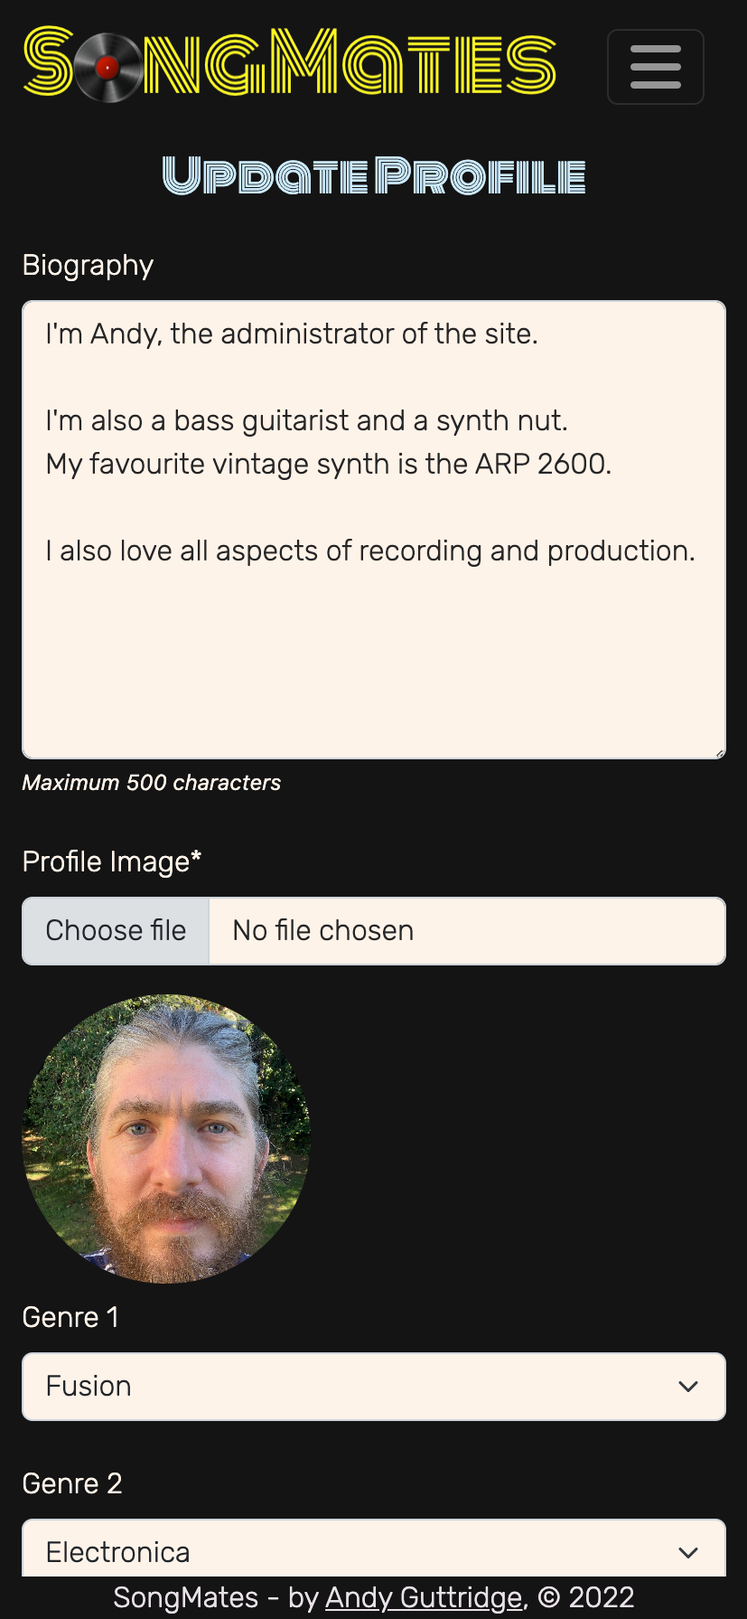
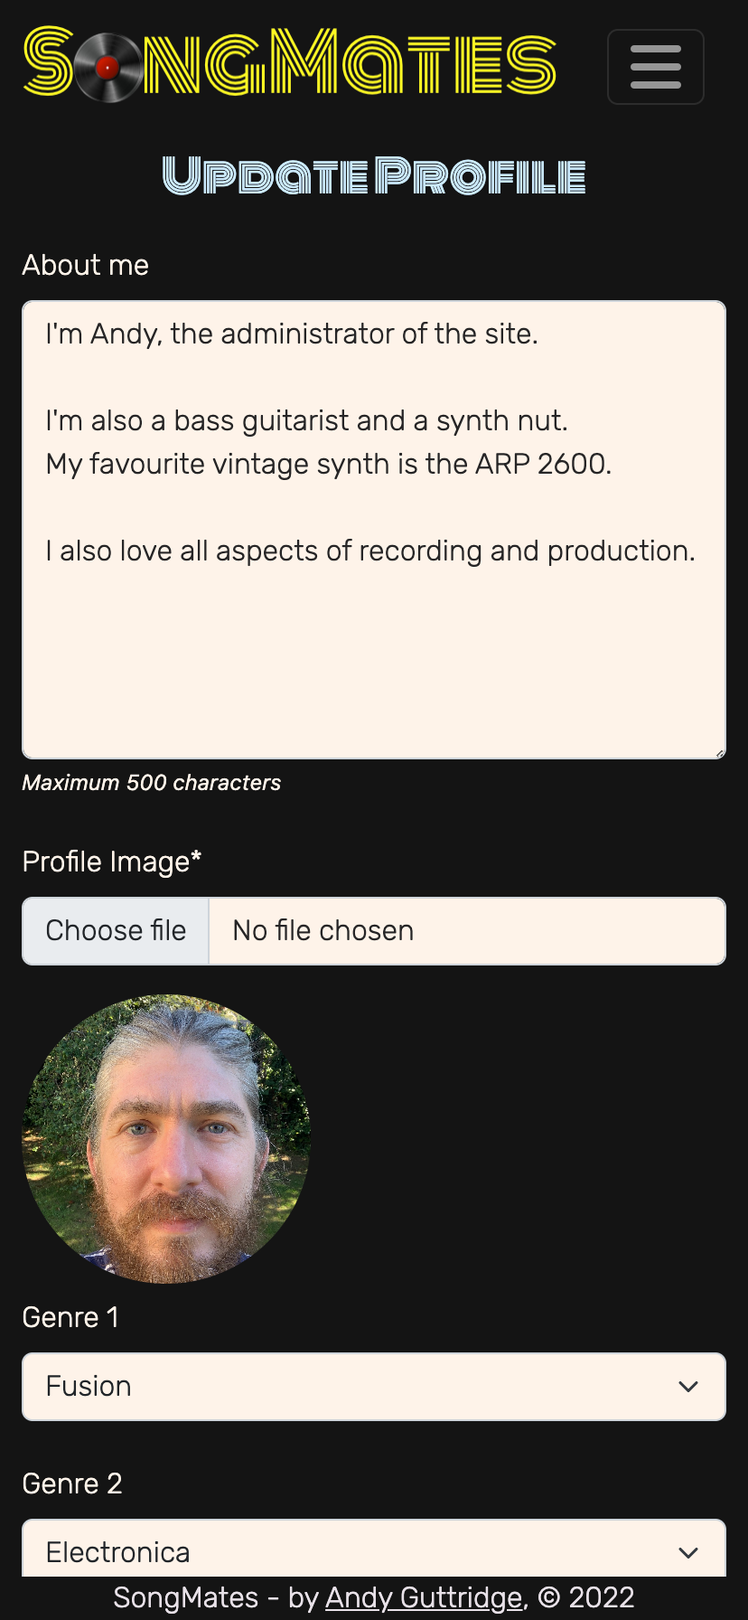
Docs: update read-me

diff --git a/README.md b/README.md
@@ -7,25 +7,22 @@
 Thanks to modern technology, musicians can make great quality recordings at home. There's never been a better time for musicians to be able to express themselves via the 
 medium of digital recording. Great music is often the result of collaboration, and while audio technology enables musicians to work with each other remotely, how do you find people to collaborate with?
  
-The purpose of Song Mates is to provide a platform for musicians who want to write, perform and record material to find like minded people to collaborate with, whether that be for a song or an album.
+The purpose of Song Mates is to provide a platform for musicians who want to write, perform and record material to find like minded people to collaborate with, whether that be for a song or an album. It was designed as a 'mobile first' web app from the ground up.
 
-SongMates was conceived as a 'mobile first' web app.
-
-SongMates enables un-quthenticated users to:
+SongMates enables un-authenticated users to:
 
 - Browse and search profiles of other users.
-- Register with SongMates
+- Register with SongMates.
 
 Authenticated users are able to:
 
 - Create a user profile with an image, and 'About me' section, select up to five genres of music they are interested in from a preset list, and specify up to five instruments and skills to display on their profile.
 - Send a 'collaboration request' to other users. This is similar to a connection request on LinkedIn or friend request on Facebook.
-- Send user to user messages directly to other users who are collaborators. Note the term 'messages' refers to user to user messages throughout this documentation (as opposed to Django user messages).
+- View the profile of users who have sent them collaboration requests, and decide whether to accept or reject the request.
+- Send user to user messages directly to other users who are collaborators. Note the term 'messages' refers to user to user messages throughout this documentation, unless otherwise stated (as opposed to Django user messages).
+- View incoming and outgoing messages in an inbox/outbox format.
 - Mark messages as deleted.
-- Uncollaborate with collaborators (this means these two users will no longer be able to message each other).
-
-
-Users can register with Song Mates, and create a profile with an image, a biography or summary of what they're looking for, and can specify the instruments they play and relevant skills. They can search for potential collaborators using these criteria, and make collaboration requests (like a connection request on LinkedIn or friend request on Facebook). Users can send direct messages to their  connections.
+- 'Uncollaborate' with collaborators (this means these two users will no longer be able to message each other).
 
 ### CRUD functionality
 
@@ -33,8 +30,8 @@ SongMates features a persistent data store with full Create, Read, Update and De
 
 - Create - authenticated users can create a user account, a profile, collaboration requests and messages (only to their approved collaborators).
 - Read - users can view the profiles of other users, and authenticated users can read messages sent to them.
-- Update - authenticated users can update their profiles and save the changes.
-- Delete - authenticated users can delete their profiles, delete pending collaboration requests (whether cancelling, rejecting or approving them) and delete messages sent by or to them (note that messsages appear to be deleted to the user, but are not actually deleted from the database until both the sending and receiving users have marked them as deleted).
+- Update - authenticated users can update their profiles and save the changes, and can approve collaboration requests sent to them (resulting in a new many-to-many relationship in the database).
+- Delete - authenticated users can delete their profiles, delete pending collaboration requests (whether cancelling, rejecting or approving them) and delete messages sent by or to them (note that messages appear to be deleted to the user, but are not actually deleted from the database until both the sending and receiving users have marked them as deleted).
 
 ## Table of contents
 
@@ -78,12 +75,12 @@ A project Kanban board was used to track progress, with user stories moved betwe
     <img src="readme_media/iteration_3_kanban_iii.png" width="400">
 </p>
 
-The project boards for each iteration in their final form can be accessed [via this link](https://github.com/andy-guttridge/song-mates/projects?query=is%3Aopen).
+The project boards in their final form can be accessed [via this link](https://github.com/andy-guttridge/song-mates/projects?query=is%3Aopen).
 There are no project boards for iterations 4 and 6, because they were 'special' three working day iterations dedicated to design/styling work and testing/bug fixing, as opposed to implementing user stories. All the MVP user stories had been successfully implemented by the end of iteration 3.
 
 There were some user stories which were automatically implemented as a consequence of other work (e.g. implementing admin panels for the data models) or by virtue of Django's built in features. These were documented with a special 'mop-up' milestone ([link](https://github.com/andy-guttridge/song-mates/milestone/6)) and closed.
 
-One challenge was that there was considerable uncertainty as to how many story points to allocate to each task. For this reason, the first iteration had tasks equating to more than 16 total, although care was taken to ensure the number of 'must haves' did not exceed 60%. As work progressed, it became apparent that story points had been overestimated for some tasks, with iteration 2 completed ahead of schedule. Iteration 3 was then opened early.
+One challenge was that there was considerable uncertainty as to how many story points to allocate to each task. For this reason, the first iteration had tasks equating to more than 16 total, although care was still taken to ensure the number of 'must haves' did not exceed 9 story points. As work progressed, it became apparent that story points had been overestimated for some tasks, with iteration 2 completed ahead of schedule. Iteration 3 was then opened early.
 
 Note that one user story was left off the iteration 3 board in error, but was planned for and completed during that iteration. It was later added to the 'done' column for that iteration to ensure it was documented.
 
@@ -127,17 +124,17 @@ Users who have not yet filled out any of their profile are redirected to this pa
 
 The update profile form enables the user to update their profile with:
 
-- A 'biography' of up to 500 characters. This is where the user can describe their musical interests and goals.
+- Am  About Me 'biography' of up to 500 characters. This is where the user can describe their musical interests and goals.
 - An image.
 - A selection of up to five musical genres from pre-populated lists.
-- Up to five free text 'instruments or skills' of up to 30 characters
+- Up to five free text 'instruments or skills' fields of up to 30 characters
 
 The form is validated so that if something goes wrong with the image upload, the user is prompted to consider whether they have uploaded a non-image file (see custom user messages below).
 The form has 'revert' and 'submit' buttons. The revert button reloads the form with the previous data, while submit commits the form to the database.
 
 At the bottom of the edit-profile is the delete account form, enabling the user to close their account. Selecting the button opens a modal dialog, giving the user the choice to dismiss the modal or confirm the deletion.
 
-In the event the user confirms the deletion, their profile is deleted from the database and their user account made inactive (in line with Django best practice which recommends not deleting user accounts in order not to cause broken references within database tables referencing users).
+In the event the user confirms the deletion, their profile is deleted from the database and their user account made inactive (in line with Django best practice which recommends not deleting user accounts in order not to cause broken references within database tables).
 
 ### Find collaborators page
 <p align="center">
@@ -170,7 +167,7 @@ The 'search profiles' field enables the user to perform a free text search on pr
 Profiles are displayed with a collapsible section which can be expanded by pressing the down arrow. This reveals the 'About me' biography and a number of possible buttons depending on the status of the user and their relationship to the other users.
 
 - If the user is not authenticated, only the 'About me' section is revealed within the collapsible.
-- If the authenticated user has an approved collaboration relationship with the other user, this is indicated with a blue collaborator icon next to the other user's name. A 'contact me' icon enables them to send a message to the other user, and an un-collaborate button enables them to end the collaboration. The send message button opens a modal dialog enabling a message to be sent directly from this page. Chossing to un-collaborate opens another modal, asking the user to dismiss or confirm the request.
+- If the authenticated user has an approved collaboration relationship with the other user, this is indicated with a blue collaborator icon next to the other user's name. A 'contact me' icon enables them to send a message to the other user, and an un-collaborate button enables them to end the collaboration. The send message button opens a modal dialog enabling a message to be sent directly from this page. Choosing to un-collaborate opens another modal, asking the user to dismiss or confirm the request.
 - If the authenticated user has a pending collaboration request (incoming or outgoing), a 'pending collaboration request' button provides a visual indication and links directly to the collaboration requests page so that action can be taken.
 - If the user is authenticated but does not currently have a collaborative relationship with the other user, a 'request to collaborate' button sends the other user a collaboration request.
 
@@ -185,6 +182,8 @@ The 'pending collaboration requests' page enables the authenticated user to see 
 
 For incoming collaboration requests, the user can decide whether to accept or reject the collaboration request. Selecting reject opens a modal dialog to ask the user to confirm the rejection.
 
+For outgoing collaboration requests, the user can cancel the request.
+
 ### Messages page with inbox and outbox
 <p align="center">
     <img src="readme_media/messages1.png" width="200">
@@ -192,9 +191,9 @@ For incoming collaboration requests, the user can decide whether to accept or re
     <img src="readme_media/messages3.png" width="200">
 </p>
 
-Similar to the collaboration requests page, the 'messages' page provides users with an overview of incoming and outgoing messages. They can users' profiles by clicking on the name in the 'from' column, and can view messages in a modal by selecting the subject of the message in the 'subject' column. For incoming messages, they can reply directly from the modal.
+Similar to the collaboration requests page, the 'messages' page provides users with an overview of incoming and outgoing messages. They can view users' profiles by clicking on the name in the 'from' column, and can view messages in a modal by selecting the subject of the message in the 'subject' column. For incoming messages, they can reply directly from the modal.
 
-A delete button enables the user to delete messages, after confirming the action in a modal dialog. If the user confirms deletion, the message will no longer be visible to them, but will only be deleted from the database when both the sending and receiving users have marked it as deleted. This is to prevent messages disappearing for one user when they have only been deleted by the other. 
+A delete button enables the user to delete messages, after confirming the action in a modal dialog. If the user confirms deletion, the message will no longer be visible to them, but will only be deleted from the database when both the sending and receiving users have marked it as deleted. This is to prevent messages disappearing for one user before they have chosen to delete it.
 
 ### Sign-in, sign-out and register pages
 <p align="center">
@@ -216,7 +215,7 @@ Sign-in, sign-out and register pages are customised to match the styling of the 
 In addition to the standard Django user messages confirming successful sign-in and sign-out, the site features four additional custom messages to give the user feedback on some possible issues:
 
 - The user could attempt to message another user with whom they were a collaborator from the messages inbox, but the previous collaborator has now deleted their profile.
-- The user could attempt to message another user with whom they were a collaborator from the messages inbox, but the previous collaborator has now ended the collaboration.
+- The user could attempt to message another user with whom they were a collaborator from the messages inbox, but the previous collaborator has now ended the collaboration. In this event, the message will not be sent.
 - The user is provided with feedback if a profile search returns no results.
 - The user is provided with feedback if something goes wrong with the edit profile form submission. While not the only possible issue, a typical cause of an error would be attempting to upload a non-image file, because most of the fields are straighforward text or multiple choice fields. The message includes a prompt to reflect this.
 
@@ -235,9 +234,9 @@ The site includes an administrator panel only accessible to users with admin or 
 - User accounts to be permanently deleted.
 - Inactive user accounts to be reactivated.
 - User details to be amended.
-- User profiles to be created.
-- User profiles to be deleted.
-- User profiles to be amended, including upload of new images.
+- Profiles to be created.
+- Profiles to be deleted.
+- Profiles to be amended, including upload of new images.
 - Collaboration requests to be created and deleted.
 - User to user messages to be created and deleted. This means site administrators can message any user, even if they are not collaborators.
 - Only superusers are able to change the permission levels for other users.
@@ -259,7 +258,7 @@ There are some parts of the site that would benefit from refactoring, which has 
 
 - There is currently a lot of HTML duplicated between the `find_collabs.html` and `single_profile.html` templates. These could be refactored into a single template, but this would require passing in additional data and adding conditional statements to the template to determine whether it should render as a single profile or multiple profiles (e.g. this would influence whether or not to render search features, the correct heading for the page etc).
 - The code to process the search form in the `SearchProfiles` class in `views.py` is overly complex. This would benefit from refactoring as a priority.
-- Currently multiple modal dialogs are created within the DOM to faciliate user interaction relating to specific profiles, collaboration requests and messages. These require unique elements and attributes such as forms and buttons, to ensure actions are performed on the correct database objects, that the correct user to user messages are displayed and so on. It would be more efficient to render one modal and populate it for the appropriate action.
+- Currently multiple modal dialogs are created within the DOM to faciliate user interaction relating to specific profiles, collaboration requests and messages. These require unique elements and attributes such as forms and buttons, to ensure actions are performed on the correct database objects, that the correct messages are displayed and so on. It would be more efficient to render one modal and populate it for the appropriate action.
 
 #### Future features
 
@@ -269,7 +268,7 @@ A significant number of potential enhancements for the future have been identifi
 - Ability to send a message with a collaboration request.
 - Ability to send a message when choosing to 'un-collaborate' with a user.
 - Organisation of user to user messages into 'threads'.
-- Abiity to distinguish between 'read' and 'unread' messages so that only unread messages are counted in the navbar, and the ability for the user to mark messages as read or unread
+- Abiity to distinguish between 'read' and 'unread' messages so that only unread messages are counted in the navbar, and the ability for the user to mark messages as read or unread.
 - Group messages.
 - Live chat.
 - Live feedback on character limit on forms.
@@ -279,9 +278,9 @@ A significant number of potential enhancements for the future have been identifi
 - Ability for users to report other users to the site admin.
 - Mechanism for users to easily contact the site admin.
 - 'Masonry' layout of user profile 'cards'.
-- A fearture to explicitly mark accounts as 'hidden', e.g. for admin accounts, although this can be achieved now by maintaining a completely empty profile.
+- A feature to explicitly mark accounts as 'hidden', e.g. for admin accounts, although this can be achieved now by maintaining a completely empty profile.
 - Ability to login with social media accounts.
-- Enhanced account management functionality, e.g. ability for users to change username, change password, change email account and add email account verifications without having to get in touch with the site admin.
+- Enhanced account management functionality, e.g. ability for users to change username, change password, change email account and add email account verifications without having to get in touch with the site admin (currently unused allauth templates have not been removed, with a view to implementing these features in future).
 - Automatic reduction of profile image size on upload.
 - Automatic deletion of images from cloudinary storage when users change their profile images or delete their profiles.
 
@@ -301,14 +300,15 @@ Wireframes were produced, mapping the 'user journey' through the site. These wer
 The wireframes proved invaluable as a guideline for the implementation phase. In response to the continual testing of the site throughout the development process, some implementation details diverged from the original wireframe plan:
 
 - Users are directed back to the home page when they login.
-- The number of instruments/skills fields available on user profiles was reduced from ten to five. The data model was initially created with five fields to keep things manageable during the initial development phase, however testing suggested that more than five could become overwhelming and that five should be sufficient for most users. The user corresponding user story was revised accordingly.
+- The number of instruments/skills fields available on user profiles was reduced from ten to five. The data model was initially created with five fields to keep things manageable during the initial development phase, however testing suggested that more than five could become overwhelming and that five should be sufficient for most users. The corresponding user story was revised accordingly.
 - As noted in the user stories section above, it was decided during development to replace the separate 'My collaborators' view with a checkbox on the profile search form, as a way of reducing site complexity and enhancing the user experience.
 - The separate 'write new message' and read message views were replaced by modal dialogs, again to reduce site complexity from the user's perspective.
 - The button to cancel a collaboration request from an individual user profile was replaced with the 'Pending collaboration request' button mentioned in the user stories section. This led to the creation of a whole new 'collaboration requests' view, which was deemed to be a more comprehensive and useful implementation.
+- Account management features such as changing user name, email address etc were not implemented due to time constraints.
 
 ### Data models
 
-Data models were originally planned using a spreadsheet prior to implementation, however are presented here in diagram form for clarity. Note that the 'join table' was not created in the Django `models.py`, but is simplified representation of how Django handles many-to-many relationships 'under the hood'.
+Data models were originally planned using a spreadsheet prior to implementation, however are presented here in diagram form for clarity. Note that the 'join table' was not created in the Django `models.py` file, but is shown here as a simplified representation of how Django handles many-to-many relationships 'behind the scenes'.
 
 SongMates uses the standard Django user model, although not all the fields are utilised.
 
@@ -316,7 +316,7 @@ Custom models for SongMates are:
 
 - Profile - represents the user's profile. This includes the biog (used for the 'About me' information), the genres, the instruments/skills fields, and an image. The profile model also records collaboration relationships between users, using a many-to-many field.
 - CollabRequest - this is a simple model representing collaboration requests sent from one user to another. When a CollabRequest instance is approved or rejected by the receiver, or cancelled by the sender, it is deleted. If approved, this results in a new many-to-many relationship in the Profile table.
-- Message - this represents user-to-user messages. This model includes `from_deleted` and `to_delete` fields, which are used to separately record when the sender and receiver have 'deleted' the message. This enables the message to be hidden from a user when they have marked it as deleted, but for it not to be actually deleted from the database until both users have 'deleted' it.
+- Message - this represents user-to-user messages. This model includes `from_deleted` and `to_deleted` fields, which are used to separately record when the sender and receiver have 'deleted' the message. This enables the message to be hidden from a user when they have marked it as deleted, but for it not to be actually deleted from the database until both users have 'deleted' it.
 
 <p align="center">
     <img src="readme_media/songmates_db_schema.png" width="400">
@@ -356,16 +356,6 @@ Front end CSS and JavaScript library.
 
 ## Testing
 
-### Fixed bugs
-- Testing of the update profile form showed that profile pictures were not uploading to cloudinary. This was rectifed by adding the `enctype="multipart/form-data"` attribute to the form element.
-- While testing the search feature, it was realised that if the user did not select any genres, no profiles would be returned. This was fixed by adding a simple conditional statement to ensure that profiles are not filtered by genre if no genres are selected.
-- During testing, it was found that the 'Show my collaborators only' checkbox on the search form was overriding other search results. For example, if a genre of 'Hip-Hop' was selected in the genres menu and the checkbox to show collaborators only was selected, collaborators would show in the search results even if none of them were matched with the 'Hip-Hop' selection. The correct outcome in this case would be no search results. This was bug was caused by an incorrect boolean condition in an if statement and easily fixed.
-- Non-authenticated users using the search function resulted in a server error. This was caused by an attempt to reference the user's profile in the `SearchProfile` view. This was fixed by moving the offending code inside a conditional statement checking for an authenticated user.
-- Testing uploading an invalid  profile image resulted in an error. This was fixed by adding a try/except block to the view code. A Django message is displayed within the except block in the event of an error.
-- The modal dialog for sending a user to user message in the Find Collaborators page was always displaying the name of the first user profile in the list, no matter which user selected to send a message to. This was because Bootstrap modals must have a unique `id` attribute. All the modals had been given the same `id` within the `for` loop that renders profiles. This was also the case for the corresponding `data-bs-modal` attribute of the buttons used to open the modal from each profile. This was fixed by appending the primary key for each user to the modal `id` and button `data-bs-modal` attribute.
-- The modal dialogs for rejecting incoming or cancelling outgoing collaboration requests were targetting the incorrect users, meaning that when there were multiple collaboration requests for one user, the incorrect one would be deleted from the database. This was for a similar reason to the above issue with user messages, and was fixed by moving the modals within the for loop and applying unique `id` attributes to the forms and buttons for each collaboration request.
-- The 'Show only my collaborators' checkbox on the search form was always returning no results, even when the user did have collaborators. This was fixed by additional checks for empty querysets and whether the checkbox has been selected in `SearchProfile` class in `views.py`.
-
 ### Manual testing
 
 Manual tests were devised for each user story, once it was decided a particular story would be implemented. These are documented on the [SongMates user stories spreadsheet](https://docs.google.com/spreadsheets/d/1lfMAhZfRnoHnkIVx8LW1cVvdgnDvWeyrtCgRz0_mvzA/edit?usp=sharing).
@@ -376,7 +366,7 @@ In addition, the site was subject to continual user testing throughout the devel
 
 ### Automated tests
 
-A number of unit tests were written to test key interactions between the views and the database models. These can be found in the `tests.py` file in the `songmates_main` directory. These tests covered:
+A number of unit tests were written to test key interactions between the views and the database models. These can be found in the `tests.py` file in the `songmates_main` directory. These were:
 
 - Test new profile is created when account is registered - passed
 - Test profile is deleted when request received from user - passed
@@ -388,19 +378,17 @@ A number of unit tests were written to test key interactions between the views a
 - Test that user to user messages are sent correctly when requested by the sender - passed
 - Test that user to user messages are correctly marked as deleted when requested by one user, but only deleted when marked as deleted by both users - passed
 
-
-
 ### Validator testing
 
 #### W3C HTML validator
 
-Given the presence of Django template code in the HTML templates, the rendered HTML was copied from the Chrome browser by right clicking, selecting 'view page source' for each page of the site and then pasting directly into the HTML validator. This following issues were detected:
+Given the presence of Django template code in the HTML templates, the rendered HTML was copied from the Chrome browser by right clicking, selecting 'view page source' for each page of the site and then pasting directly into the HTML validator. The following issues were detected:
 - Three HTML character codes which were not terminated with a `;`  in the navbar and the footer.
 - An element with an opening `<button>` tag and closing `<a>` tag in `find_collabs.html`.
 - The `onchange` attribute for the checkbox on the search form was incorrectly spelt `on-change`. This highlighted that this attribute was a 'hangover' from the development process and had been replaced by an event listener added to the element via JavaScript, so was removed altogether.
 - The `rows` attribute used on the form in the send message modal in the `find_collabs.html` template had been mispelt.
 - Duplicate `id` attributes were found for the modals and forms used to confirm deletion of a collaboration relationship, and for the `form` elements used to send a collaboration request in `find_collabs.html`.
-- Modals were being rendered with `id` attributes referencing non-existent forms in`find_collabs.html`. This error was rectified by wrapping the modal code in an `if`...`endif` block within the HTML template, to check whether a modal would be required for that particular user profile.
+- Modals were being rendered with `id` attributes referencing non-existent forms in `find_collabs.html`. This error was rectified by wrapping the modal code in an `if`...`endif` block within the HTML template, to check whether a modal would be required for that particular user profile.
 - A similar issue with modals being rendered with `id` attributes referencing non-existent forms was also present in `messages.html`. This only affected outgoing messages, and was rectified by moving an `endif` to ensure that modals are only rendered if there is an associated form.
 - Modals were being rendered inside tables in `collab_requests.html` and `messages.html`. This was fixed by moving the modals into a separate for loop within the HTML template.
 
@@ -458,35 +446,77 @@ Performance scores for some pages are disappointing and seem to be largely relat
 <img src="readme_media/lighthouse_signout.png">
 <img src="readme_media/lighthouse_signup.png">
 
-##  Bugs
-
-Initially, allauth configuration was set to require the user to login with an email address and for email verification to be required. However, this caused a Django 'connection refused' error. This was caused by the fact no email server was availabe to send verification request emails. Settings were changed so that account login is by username rather than email address. 
-
 ### Resolved bugs
+- Initially, allauth configuration was set to require the user to login with an email address and for email verification to be required. However, this resulted in a Django 'connection refused' error. This was caused by the fact no email server was availabe to send verification request emails. Settings were changed so that account login is by username rather than email address. 
+- Testing of the update profile form showed that profile pictures were not uploading to cloudinary. This was rectifed by adding the `enctype="multipart/form-data"` attribute to the form element.
+- While testing the search feature, it was realised that if the user did not select any genres, no profiles would be returned. This was fixed by adding a simple conditional statement to ensure that profiles are not filtered by genre if no genres are selected.
+- During testing, it was found that the 'Show my collaborators only' checkbox on the search form was overriding other search results. For example, if a genre of 'Hip-Hop' was selected in the genres menu and the checkbox to show collaborators only was selected, collaborators would show in the search results even if none of them were matched with the 'Hip-Hop' selection. The correct outcome in this case would be no search results. This was bug was caused by an incorrect boolean condition in an if statement and easily fixed.
+- Non-authenticated users using the search function resulted in a server error. This was caused by an attempt to reference the user's profile in the `SearchProfile` view. This was fixed by moving the offending code inside a conditional statement checking for an authenticated user.
+- Testing uploading an invalid  profile image resulted in an error. This was fixed by adding a try/except block to the view code. A Django message is displayed within the except block in the event of an error.
+- The modal dialog for sending a user to user message in the Find Collaborators page was always displaying the name of the first user profile in the list, no matter which user selected to send a message to. This was because Bootstrap modals must have a unique `id` attribute. All the modals had been given the same `id` within the `for` loop that renders profiles. This was also the case for the corresponding `data-bs-modal` attribute of the buttons used to open the modal from each profile. This was fixed by appending the primary key for each user to the modal `id` and button `data-bs-modal` attribute.
+- The modal dialogs for rejecting incoming or cancelling outgoing collaboration requests were targetting the incorrect users, meaning that when there were multiple collaboration requests for one user, the incorrect one would be deleted from the database. This was for a similar reason as the above issue with user messages, and was fixed by moving the modals within the for loop and applying unique `id` attributes to the forms and buttons for each collaboration request.
+- The 'Show only my collaborators' checkbox on the search form was always returning no results, even when the user did have collaborators. This was fixed by additional checks for empty querysets and whether the checkbox has been selected in the `SearchProfile` class in `views.py`.
 
 ### Unresolved bugs
+- There are no known unresolved bugs, however it is very likely there are some which have not been detected.
 
 ## Deployment
+
+SongMates is deployed to Heroku. 
+To duplicate deployment to Heroku, follow these steps:
+
+- Fork or clone this repository in GitHub.
+- You will need a Cloudinary account to host user images and static files.
+- Login to Cloudinary.
+- Select the 'dashboard' option.
+- Copy the value of the 'API Environment variable' from the part starting `cloudinary://` to the end. You may need to select the eye icon to view the full environment variable. Paste this value somewhere for safe keeping as you will need it shortly (but destroy after deployment).
+- Log in to Heroku.
+- Select 'Create new app' from the 'New' menu at the top right.
+- Enter a name for the app and select the appropriate region.
+- Select 'Create app'.
+- Select 'Settings' from the menu at the top.
+- Select the 'resources' tab. 
+- Search for 'Heroku Postgres' in 'Add-ons' search bar.
+- Choose the 'Hobby Dev - free' plan.
+- When the Heroku Postgres database has been added, select the instance of the database by clicking on 'Heroku Postgres' (to the right of this it will say 'Attached as database').
+- Select the 'settings' option at the top (this opens the settings for the database as opposed to the app).
+- Select the 'view credentials' button to the right.
+- Copy and paste the value given for the database URI somewhere for use in a moment.
+- Close the database page (which should have opened in a new tab) and return to your Heroku app.
+- Select the 'settings' tab.
+- Locate the 'reveal config vars' link and select.
+- Enter the following config var names and values:
+    - `CLOUDINARY_URL`: *your cloudinary URL as obtained above*
+    - `DATABASE_URL`: *your Heroku postgres database URI as obtained above*
+    - `PORT`: `8000`
+    - `SECRET_KEY`: *your secret key*
+- Select the 'Deploy' tab at the top.
+- Select 'GitHub' and confirm you wish to deploy using GitHub. You may be asked to enter your GitHub password.
+- Find the 'Connect to GitHub' section and use the search box to locate your repo.
+- Select 'Connect' when found.
+- Optionally choose the main branch under 'Automatic Deploys' and select 'Enable Automatic Deploys' if you wish your deployed site to be automatically redeployed every time you push changes to GitHub.
+- Find the 'Manual Deploy' section, choose 'main' as the branch to deploy and select 'Deploy Branch'.
+- Your site will shortly be deployed and you will be given a link to the deployed site when the process is complete.
 
 ## Credits
 
 ### Code
 
 - The steps to connect to a Heroku Postgres database and deploy were adapted from the Code Institute 'I think therefore I blog' tutorial. This includes defining `DATABASE_URL` and `SECRET_KEY` environment variables in an `env.py` file in the local environment and adding corresponding config variables in the Heroku dashboard, using dj_database_url to create a URL from the Heroku database URL in `settings.py`, updating `ALLOWED_HOSTS` in `settings.py` with the deployed Heroku URL and adding the templates path to a `TEMPLATES_DIR` variable in `settings.py`.
-- This [stackoverflow article](https://stackoverflow.com/questions/68810221/login-required-decorator-gives-object-has-no-attribute-user-error) was referenced to understand how to use the 'login-required' decorator with a class based view
-- The approach to deleting a user account (actually making the account inactive) in response to a button was adapted from [this stackoverflow article](https://stackoverflow.com/questions/38047408/how-to-allow-user-to-delete-account-in-django-allauth)
+- This [stackoverflow article](https://stackoverflow.com/questions/68810221/login-required-decorator-gives-object-has-no-attribute-user-error) was referenced to understand how to use the 'login-required' decorator with a class based view.
+- The approach to deleting a user account (actually making the account inactive) in response to a button was adapted from [this stackoverflow article](https://stackoverflow.com/questions/38047408/how-to-allow-user-to-delete-account-in-django-allauth).
 - The Bootstrap 5 documentation was extensively referenced for guidance on implementing navbars and modal dialogs.
-- The approach to using a crispy form Div helper class to layout form elements next to each other was based on [this stackoverflow article](https://stackoverflow.com/questions/23021746/get-two-fields-inline-in-django-crispy-forms-but-not-others-horizontal)
-- The approach to using the crispy forms HTML help class to display an image from the database model in a form was based on (https://stackoverflow.com/questions/21076248/imagefield-preview-in-crispy-forms-layout)
+- The approach to using a crispy form Div helper class to layout form elements next to each other was based on [this stackoverflow article](https://stackoverflow.com/questions/23021746/get-two-fields-inline-in-django-crispy-forms-but-not-others-horizontal).
+- The approach to using the crispy forms HTML help class to display an image from the database model in a form was based on (https://stackoverflow.com/questions/21076248/imagefield-preview-in-crispy-forms-layout).
 - The approach to using a custom template tag to pass data to the base HTML template was adapated from (https://stackoverflow.com/questions/21062560/django-variable-in-base-html) and then refined with reference to the official Django documentation.
 - This [stack overflow question](https://stackoverflow.com/questions/53672002/how-to-call-conditional-statements-on-template-tags-with-no-arguments-django) was referenced for details on how to convert a custom template tag to a variable in Django template.
-- The technique for displaying values of a many to many field in the admin panel was adapted from [stack overflow question](https://stackoverflow.com/questions/18108521/many-to-many-in-list-display-django)
+- The technique for displaying values of a many to many field in the admin panel was adapted from [stack overflow question](https://stackoverflow.com/questions/18108521/many-to-many-in-list-display-django).
 - This [stack overflow question](https://stackoverflow.com/questions/21666963/django-forms-multiplechoicefield-only-selects-one-value) was referenced to discover how to access a list of values returned by a multiple choice Django form element.
-- The technique of using an `initial` argument when initialising a form to set a form input's initial value is from (https://stackoverflow.com/questions/604266/django-set-default-form-values)
-- Using the `_in` lookup parameter to find out if the value of a field exists within a list was adapated from (https://stackoverflow.com/questions/70703168/check-if-each-value-within-list-is-present-in-the-given-django-model-table-in-a)
-- The syntax for searching on a property of a foreign key object is adapated from (https://stackoverflow.com/questions/35012942/related-field-got-invalid-lookup-icontains)
-- The technique for overriding the save method of a Django model class in order to compute the value of a field based on the values of other fields is adapted from(https://stackoverflow.com/questions/22157437/model-field-based-on-other-fields)
-- The technique for identifying the currently active link in the navbar and conditionally applying classes is from (https://stackoverflow.com/questions/46617375/how-do-i-show-an-active-link-in-a-django-navigation-bar-dropdown-list)
+- The technique of using an `initial` argument when initialising a form to set a form input's initial value is from (https://stackoverflow.com/questions/604266/django-set-default-form-values).
+- Using the `_in` lookup parameter to find out if the value of a field exists within a list was adapated from (https://stackoverflow.com/questions/70703168/check-if-each-value-within-list-is-present-in-the-given-django-model-table-in-a).
+- The syntax for searching on a property of a foreign key object is adapated from (https://stackoverflow.com/questions/35012942/related-field-got-invalid-lookup-icontains).
+- The technique for overriding the save method of a Django model class in order to compute the value of a field based on the values of other fields is adapted from(https://stackoverflow.com/questions/22157437/model-field-based-on-other-fields).
+- The technique for identifying the currently active link in the navbar and conditionally applying classes is from (https://stackoverflow.com/questions/46617375/how-do-i-show-an-active-link-in-a-django-navigation-bar-dropdown-list).
 - Using the JavaScript `setTimeout()` function to automatically dismiss Django messages was adapted from the Code Institute Django Blog walkthrough.
 - This [Stack Overflow](https://stackoverflow.com/questions/35777410/multi-modals-bootstrap-in-for-loop-django) question was referenced to fix the issue with modals opening for the incorrect user when sending a message from the Find Collaborators page.
 - This [Stack Overflow](https://stackoverflow.com/questions/19024218/bootstrap-3-collapse-change-chevron-icon-on-click) question was referenced for a solution to changing the icon displayed depending on the state of a Bootstrap collapse item.
@@ -494,6 +524,8 @@ Initially, allauth configuration was set to require the user to login with an em
 - The technique to conditionally add a local database for unit tests within the `settings.py` file is from [this Stack Overflow artice](https://stackoverflow.com/questions/4650509/different-db-for-testing-in-django).
 - The technique to ensure the latest state of the user is loaded from the database within a unit test is from [Stack Overflow](https://stackoverflow.com/questions/64741329/why-is-my-test-function-not-activating-the-user).
 - This [Stack Overflow](https://stackoverflow.com/questions/910169/resize-fields-in-django-admin) article was referenced to understand how to resize fields in the Django admin panel forms.
+
+In addition to the specific articles and materials referenced above, the official Django and Bootstrap documentation was extensively referenced throughout the project.
 
 ### Content
 
@@ -505,11 +537,12 @@ Initially, allauth configuration was set to require the user to login with an em
     - [Envelope icon](https://fontawesome.com/icons/envelope)
     - [Down chevron icon](https://fontawesome.com/icons/chevron-down?s=solid&f=classic)
     - [Up chevron icon](https://fontawesome.com/icons/chevron-up?s=solid&f=classic)
-- **Google Fonts TBC**
+- Google fonts
+    - [Monoton](https://fonts.google.com/specimen/Monoton?query=Monoton)
+    - [Rubik Mono One](https://fonts.google.com/specimen/Rubik+Mono+One?query=rubik+mono)
+    - [Rubik](https://fonts.google.com/specimen/Rubik?query=rubik)
 - Placeholder profile image by WandererCreative and downloaded from [Pixabay](https://pixabay.com/images/id-973460/)
 - Vinyl record image used in the logo by Paul Brennan and downloade from [Pixabay](https://pixabay.com/photos/phonograph-record-vinyl-audio-sound-3148686/)
-**???***
-- Hero image of guitar amplifier by dmkock and downloaded  from [Pixabay](https://pixabay.com/photos/electric-guitar-amplifier-amplifier-640683/) 
 - Hero image of red vinyl record by Stas Knop and downloaded from [Pexels](https://www.pexels.com/photo/red-vinyl-record-3552948/)
 - Profile images for test user accounts:
     - ElizaB's image is from [Freepik](https://www.freepik.es/vector-premium/dibujo-dibujos-animados-cantante_20243817.htm)
